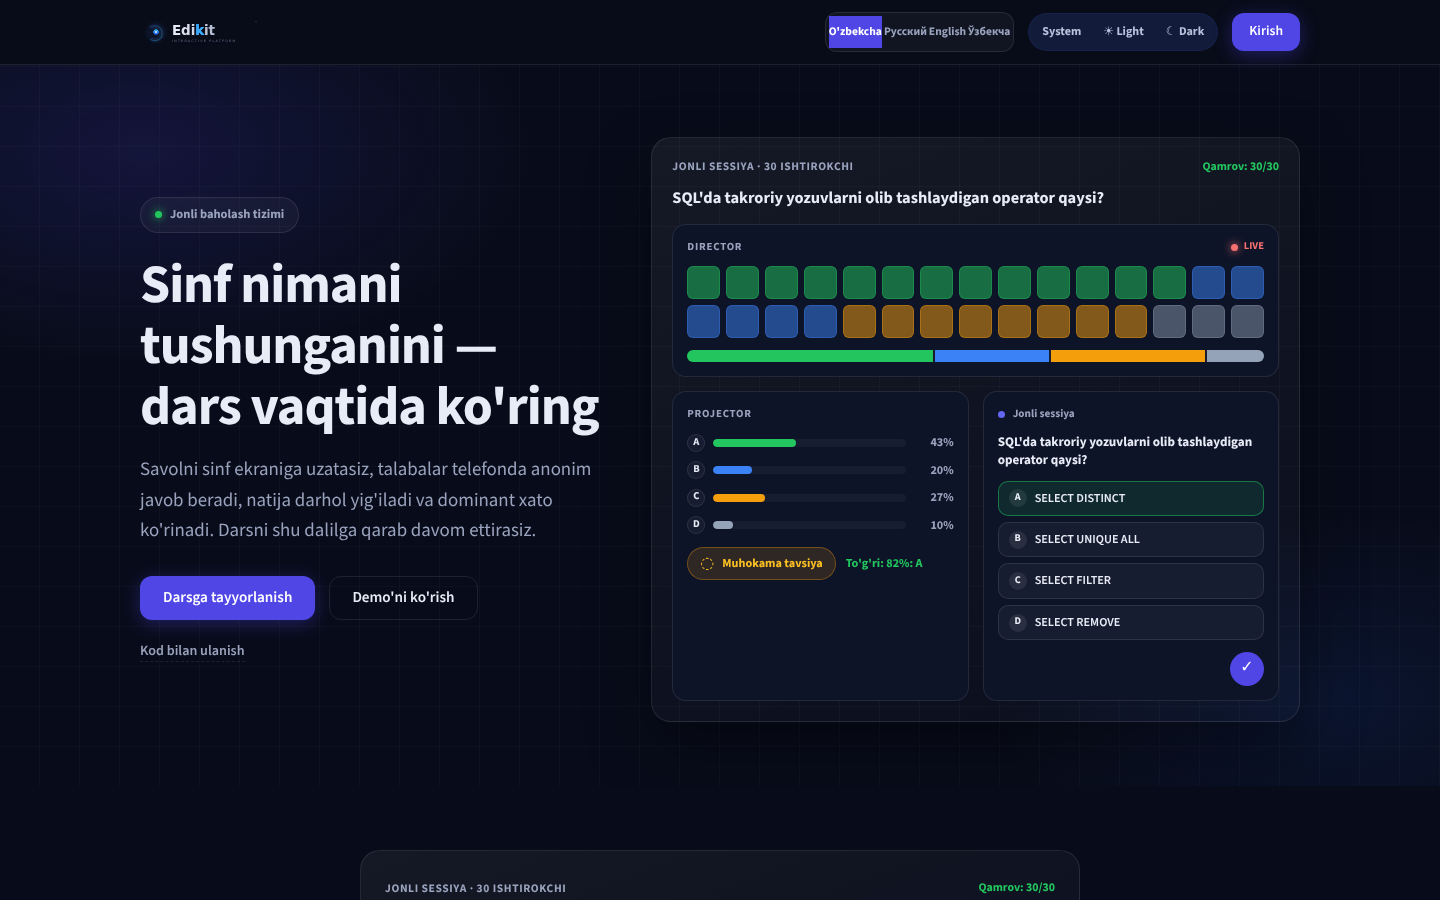
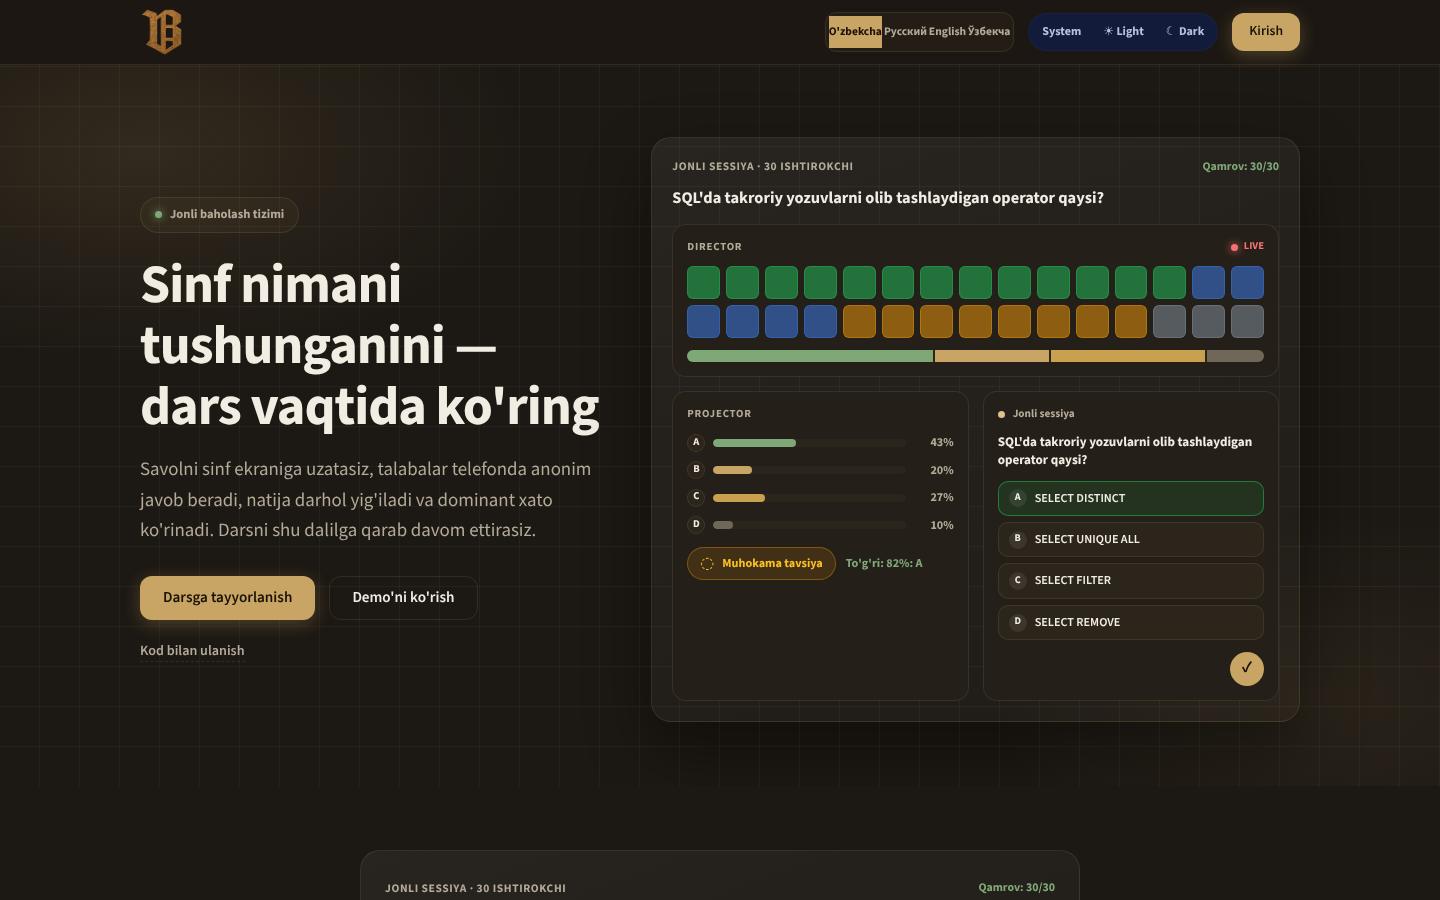
feat(ui): landing (sayt tepasi) ham vintage — navy/indigo palitra jigarrang
- landing.css: --ld-* tokenlar vintage (dark #1c1813, light #ece3d0, oltin CTA)
- Eski indigo/violet (#4f46e5, #3b82f6, #38bdf8, #818cf8) butunlay olib tashlandi
- Hero glow, rail/dist, trust, CTA box, stats — oltin/jigarrang/yashil-muted
- --ld-on-primary token: dark'da to'q ink, light'da ivory (AA 5.43:1)
- landing-head theme-color + boot ham vintage
- axe: landing 12/12 PASS, visual baselinelar yangilandi

diff --git a/public/css/landing.css b/public/css/landing.css
@@ -6,16 +6,17 @@
 
 /* ── Tokens (style.md §11.2 bilan sinxron) ── */
 :root {
-  --ld-bg: #080c1a;
-  --ld-surface: rgba(255, 255, 255, 0.04);
-  --ld-surface-solid: #0e1428;
-  --ld-border: rgba(255, 255, 255, 0.09);
-  --ld-text: #e8ecf7;
-  --ld-muted: #9aa3bd;
-  --ld-primary: #4f46e5;
-  --ld-primary-hover: #6366f1;
-  --ld-primary-glow: rgba(79, 70, 229, 0.35);
-  --ld-green: #22c55e;
+  --ld-bg: #1c1813;
+  --ld-surface: rgba(201, 165, 101, 0.05);
+  --ld-surface-solid: #241f18;
+  --ld-border: rgba(201, 165, 101, 0.14);
+  --ld-text: #f2ede3;
+  --ld-muted: #b3aa98;
+  --ld-primary: #c9a565;
+  --ld-primary-hover: #ddc08c;
+  --ld-primary-glow: rgba(201, 165, 101, 0.3);
+  --ld-green: #7fa878;
+  --ld-on-primary: #1a1305;
   --ld-radius: 14px;
   --ld-radius-lg: 20px;
   --ld-container: 1200px;
@@ -23,41 +24,42 @@
 
 /* ── Light theme (STEP 23 S23.10) — theme switcher amalda ishlaydi ── */
 [data-theme='light'] {
-  --ld-bg: #f4f6fb;
-  --ld-surface: rgba(15, 23, 42, 0.05);
-  --ld-surface-solid: #ffffff;
-  --ld-border: rgba(15, 23, 42, 0.12);
-  --ld-text: #1a2138;
-  --ld-muted: #5b647e;
-  --ld-primary: #4f46e5;
-  --ld-primary-hover: #4338ca;
-  --ld-primary-glow: rgba(79, 70, 229, 0.18);
-  --ld-green: #16a34a;
+  --ld-bg: #ece3d0;
+  --ld-surface: rgba(110, 90, 40, 0.07);
+  --ld-surface-solid: #f4eee0;
+  --ld-border: rgba(110, 90, 40, 0.16);
+  --ld-text: #2a2316;
+  --ld-muted: #635c4b;
+  --ld-primary: #7e5f28;
+  --ld-primary-hover: #755a20;
+  --ld-primary-glow: rgba(138, 106, 46, 0.2);
+  --ld-green: #55724e;
+  --ld-on-primary: #faf5e8;
 }
 [data-theme='light'] .ld-hero::before {
   background:
-    radial-gradient(620px 340px at 10% 12%, rgba(79, 70, 229, 0.10), transparent 62%),
-    radial-gradient(540px 300px at 92% 88%, rgba(37, 99, 235, 0.08), transparent 62%),
-    repeating-linear-gradient(0deg, transparent 0 39px, rgba(15, 23, 42, 0.035) 39px 40px),
-    repeating-linear-gradient(90deg, transparent 0 39px, rgba(15, 23, 42, 0.035) 39px 40px);
+    radial-gradient(620px 340px at 10% 12%, rgba(126, 95, 40, 0.12), transparent 62%),
+    radial-gradient(540px 300px at 92% 88%, rgba(126, 95, 40, 0.08), transparent 62%),
+    repeating-linear-gradient(0deg, transparent 0 39px, rgba(110, 90, 40, 0.04) 39px 40px),
+    repeating-linear-gradient(90deg, transparent 0 39px, rgba(110, 90, 40, 0.04) 39px 40px);
 }
 [data-theme='light'] .ld-stage,
 [data-theme='light'] .ld-demo-stage {
-  background: linear-gradient(160deg, rgba(15, 23, 42, 0.04), rgba(15, 23, 42, 0.01));
-  box-shadow: 0 26px 64px rgba(15, 23, 42, 0.12);
+  background: linear-gradient(160deg, rgba(110, 90, 40, 0.05), rgba(110, 90, 40, 0.02));
+  box-shadow: 0 26px 64px rgba(42, 35, 22, 0.16);
 }
 [data-theme='light'] .ld-dist-bar--ok,
-[data-theme='light'] .ld-rail--a { background: #16a34a; }
+[data-theme='light'] .ld-rail--a { background: #55724e; }
 [data-theme='light'] .ld-phone-submit { background: var(--ld-primary); }
-[data-theme='light'] .ld-discuss-chip { color: #b45309; }
+[data-theme='light'] .ld-discuss-chip { color: #8f6a1f; }
 [data-theme='light'] .ld-stage-correct { color: var(--ld-green); }
 /* S36.01 — light theme'da ham header dark glass bo'lgani uchun lang linklari light qoladi */
-[data-theme='light'] .ld-lang { color: #AAB2C9; }
-[data-theme='light'] .ld-lang:hover { color: #E8ECF7; }
+[data-theme='light'] .ld-lang { color: #b3aa98; }
+[data-theme='light'] .ld-lang:hover { color: #f2ede3; }
 /* S36.01 — pastel pill/bubble text'lari light theme'da tintli fonda 1.1-1.6:1 edi → dark ink */
-[data-theme='light'] .ld-crop-pill { color: #3730A3; }
-[data-theme='light'] .ld-crop-pill--ok { color: #166534; }
-[data-theme='light'] .ld-crop-bubble--ai { color: #3730A3; }
+[data-theme='light'] .ld-crop-pill { color: #5f451d; }
+[data-theme='light'] .ld-crop-pill--ok { color: #2e5c3f; }
+[data-theme='light'] .ld-crop-bubble--ai { color: #5f451d; }
 
 /* ── Base ── */
 .ld-body {
@@ -81,7 +83,7 @@
   left: 12px;
   z-index: 100;
   background: var(--ld-primary);
-  color: #fff;
+  color: var(--ld-on-primary);
   padding: var(--deborah-spacing-3, 12px) var(--deborah-spacing-4, 16px)
   border-radius: 8px;
   font-weight: 700;
@@ -96,7 +98,7 @@
   z-index: 50;
   backdrop-filter: blur(14px);
   -webkit-backdrop-filter: blur(14px);
-  background: rgba(8, 12, 26, 0.82);
+  background: rgba(28, 24, 19, 0.85);
   border-bottom: 1px solid var(--ld-border);
 }
 .ld-header-inner {
@@ -142,7 +144,7 @@
   transition: color 0.2s, background 0.2s;
 }
 .ld-lang:hover { color: var(--ld-text); }
-.ld-lang.is-active { background: var(--ld-primary); color: #fff; }
+.ld-lang.is-active { background: var(--ld-primary); color: var(--ld-on-primary); }
 
 /* ── Buttons (style.md §11.2 Primary/Ghost) ── */
 .ld-btn {
@@ -165,7 +167,7 @@
 .ld-btn-primary {
   /* S12.10 — solid (gradient faqat approved brand art'da) */
   background: var(--ld-primary);
-  color: #fff;
+  color: var(--ld-on-primary);
   box-shadow: 0 4px 18px var(--ld-primary-glow);
 }
 .ld-btn-primary:hover { transform: translateY(-2px); box-shadow: 0 8px 26px var(--ld-primary-glow); }
@@ -190,10 +192,10 @@
   inset: 0;
   pointer-events: none;
   background:
-    radial-gradient(620px 340px at 10% 12%, rgba(79, 70, 229, 0.16), transparent 62%),
-    radial-gradient(540px 300px at 92% 88%, rgba(37, 99, 235, 0.10), transparent 62%),
-    repeating-linear-gradient(0deg, transparent 0 39px, rgba(255, 255, 255, 0.024) 39px 40px),
-    repeating-linear-gradient(90deg, transparent 0 39px, rgba(255, 255, 255, 0.024) 39px 40px);
+    radial-gradient(620px 340px at 10% 12%, rgba(201, 165, 101, 0.13), transparent 62%),
+    radial-gradient(540px 300px at 92% 88%, rgba(201, 165, 101, 0.08), transparent 62%),
+    repeating-linear-gradient(0deg, transparent 0 39px, rgba(242, 237, 227, 0.045) 39px 40px),
+    repeating-linear-gradient(90deg, transparent 0 39px, rgba(242, 237, 227, 0.045) 39px 40px);
 }
 .ld-hero .ld-container { position: relative; }
 .ld-hero-split {
@@ -357,10 +359,10 @@
   gap: 2px;
 }
 .ld-rail-seg { width: var(--w); }
-.ld-rail--a { background: #22c55e; }
-.ld-rail--b { background: #3b82f6; }
-.ld-rail--c { background: #f59e0b; }
-.ld-rail--d { background: #94a3b8; }
+.ld-rail--a { background: #7fa878; }
+.ld-rail--b { background: #c9a565; }
+.ld-rail--c { background: #c9a14e; }
+.ld-rail--d { background: #6f6757; }
 
 /* Projector distribution */
 .ld-dist { display: flex; flex-direction: column; gap: 8px; margin-bottom: 12px; }
@@ -394,10 +396,10 @@
   width: var(--w);
   border-radius: 999px;
 }
-.ld-dist--a { background: #22c55e; }
-.ld-dist--b { background: #3b82f6; }
-.ld-dist--c { background: #f59e0b; }
-.ld-dist--d { background: #94a3b8; }
+.ld-dist--a { background: #7fa878; }
+.ld-dist--b { background: #c9a565; }
+.ld-dist--c { background: #c9a14e; }
+.ld-dist--d { background: #6f6757; }
 .ld-dist-pct { width: 40px; text-align: right; color: var(--ld-muted); font-weight: 700; }
 
 /* Teacher action + correct chip */
@@ -467,7 +469,7 @@
   justify-content: center;
   border-radius: 50%;
   background: var(--ld-primary);
-  color: #fff;
+  color: var(--ld-on-primary);
   font-weight: 700;
 }
 
@@ -624,7 +626,7 @@
   padding: 7px 12px;
   border-radius: 12px;
 }
-.ld-crop-bubble--ai { align-self: flex-start; background: rgba(79, 70, 229, 0.18); border: 1px solid rgba(79, 70, 229, 0.4); color: #c7d2fe; }
+.ld-crop-bubble--ai { align-self: flex-start; background: rgba(201, 165, 101, 0.16); border: 1px solid rgba(201, 165, 101, 0.42); color: #e8d5ab; }
 .ld-crop-bubble--user { align-self: flex-end; background: var(--ld-surface); border: 1px solid var(--ld-border); color: var(--ld-text); }
 
 /* ── Demo (STEP 22 S22.10) — full product stage archetype ── */
@@ -685,7 +687,7 @@
   transition: border-color 0.15s, background 0.15s, transform 0.15s;
 }
 .ld-demo-opt:hover { border-color: var(--ld-primary); transform: translateY(-1px); }
-.ld-demo-opt.is-correct { border-color: var(--ld-green); background: rgba(34, 197, 94, 0.12); }
+.ld-demo-opt.is-correct { border-color: var(--ld-green); background: rgba(127, 168, 120, 0.14); }
 .ld-demo-opt.is-wrong { border-color: #ef4444; background: rgba(239, 68, 68, 0.1); }
 .ld-demo-result { margin: 16px 0 0; font-weight: 700; }
 .ld-demo-result.is-good { color: var(--ld-green); }
@@ -712,7 +714,7 @@
   cursor: pointer;
   transition: background 0.15s, color 0.15s;
 }
-.ld-tab.is-active { background: var(--ld-primary); border-color: var(--ld-primary); color: #fff; }
+.ld-tab.is-active { background: var(--ld-primary); border-color: var(--ld-primary); color: var(--ld-on-primary); }
 /* ── How (STEP 22 S22.10) — split editorial: copy + vertical steps ── */
 .ld-how-split {
   display: grid;
@@ -740,7 +742,7 @@
   top: 26px;
   bottom: 26px;
   width: 2px;
-  background: linear-gradient(180deg, var(--ld-primary), rgba(79, 70, 229, 0.08));
+  background: linear-gradient(180deg, var(--ld-primary), rgba(201, 165, 101, 0.12));
 }
 .ld-step {
   position: relative;
@@ -762,7 +764,7 @@
   justify-content: center;
   border-radius: 50%;
   background: var(--ld-primary);
-  color: #fff;
+  color: var(--ld-on-primary);
   font-weight: 700;
   font-size: 0.85rem;
   box-shadow: 0 0 0 4px var(--ld-bg), 0 0 0 5px var(--ld-border);
@@ -774,7 +776,7 @@
   justify-content: center;
   border-radius: 50%;
   background: var(--ld-primary);
-  color: #fff;
+  color: var(--ld-on-primary);
   font-weight: 700;
   font-size: 0.9rem;
   margin-bottom: 12px;
@@ -810,7 +812,7 @@
   align-items: center;
   justify-content: center;
   border-radius: 10px;
-  background: rgba(79, 70, 229, 0.14);
+  background: rgba(201, 165, 101, 0.14);
   color: var(--ld-primary-hover);
   margin-bottom: 4px;
 }
@@ -819,13 +821,13 @@
 .ld-trust-desc { font-size: 0.86rem; color: var(--ld-muted); margin: 0; }
 .ld-trust-more { font-size: 0.82rem; font-weight: 700; color: var(--ld-primary-hover); margin-top: 4px; }
 /* S36.02: dark'da #6366f1 4.03:1 edi — indigo-400 5.6:1 (light override yuqorida #4338ca) */
-[data-theme='dark'] .ld-trust-more { color: #818CF8; }
+[data-theme='dark'] .ld-trust-more { color: #ddc08c; }
 
 /* ── Final CTA ── */
 .ld-cta-box {
   text-align: center;
-  background: linear-gradient(180deg, rgba(79, 70, 229, 0.12), rgba(124, 58, 237, 0.05));
-  border: 1px solid rgba(99, 102, 241, 0.35);
+  background: linear-gradient(180deg, rgba(201, 165, 101, 0.14), rgba(160, 120, 60, 0.05));
+  border: 1px solid rgba(201, 165, 101, 0.4);
   border-radius: var(--ld-radius-lg);
   padding: 48px 24px;
 }
@@ -936,12 +938,12 @@
   color: var(--ld-muted);
 }
 .ld-stats-note a {
-  color: #818cf8; /* dark: #4f46e5 3.33:1 — AA 4.5:1 uchun yorqinroq */
+  color: #ddc08c; /* dark: #4f46e5 3.33:1 — AA 4.5:1 uchun yorqinroq */
   text-decoration: underline;
   text-underline-offset: 2px;
 }
 [data-theme='light'] .ld-stats-note a {
-  color: var(--ld-primary); /* #4f46e5 light bg'da 5.35:1 — OK */
+  color: #5f451d; /* #7e5f28 #e3d9c4'da 4.21:1 edi — AA uchun quyuqroq */
 }
 
 /* ── Reduced motion (style.md §8) ── */

diff --git a/design-audit/cvd-report.md b/design-audit/cvd-report.md
@@ -1,6 +1,6 @@
 # Deborah CVD Report (S06.08-09)
 
-Generated: 2026-08-25T02:45:31.440Z
+Generated: 2026-08-25T04:56:17.702Z
 Distinctness checks: 67 | PASS: 46 | INFO (grayscale, qonuniy): 13 | Warnings: 8 | Hard FAIL: 0
 
 ## CVD simulation — status/answer distinctness (min Δ ≥ 30)

diff --git a/design-audit/contrast-report.md b/design-audit/contrast-report.md
@@ -1,6 +1,6 @@
 # Deborah Contrast Report (S06.12)
 
-Generated: 2026-08-25T03:00:32.396Z
+Generated: 2026-08-25T04:56:17.632Z
 Pair check: 40 | PASS: 40 | FAIL: 0 (buffer 0.2–0.5 near threshold)
 
 | Theme | Pair | FG | BG | Ratio | Target | Status |
